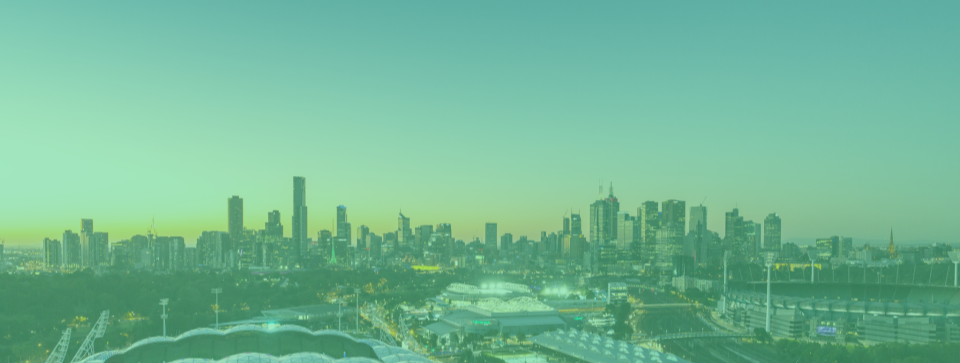
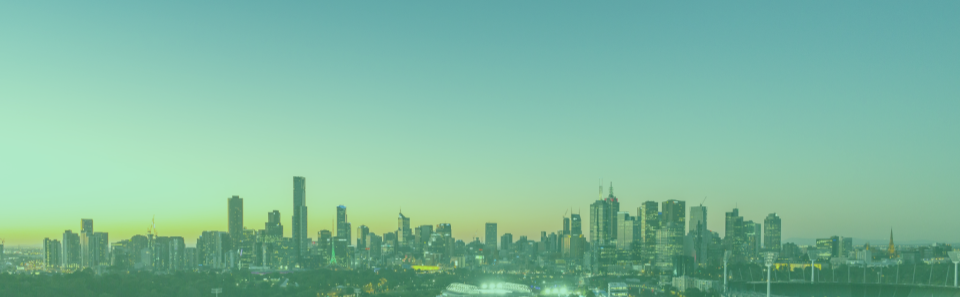
image size

Changed region(s): [[0.0, 0.4848, 1.0, 1.0]]

diff --git a/index.md b/index.md
@@ -7,7 +7,7 @@
 # <h3 class="blackpar_title">(Models, Training and Inference)</h3>
 layout: home
 ---
-<div style="font-family: 'Source Sans', sans-serif; background: url('images/front_photo_melbourne.png') no-repeat; background-size: contain; user-select: none;">
+<div style="font-family: 'Source Sans', sans-serif; background: url('images/front_photo_melbourne.png') no-repeat; background-size: cover; user-select: none;">
 	<center>
 		<h2 class="blackpar_title">SUMAC 2024</h2>
 		<h3 class="blackpar_title"> 6<sup>th</sup> workshop on analy<a style="color: rgb(164, 0, 0)">s</a>is, <a style="color: rgb(164, 0, 0)">u</a>nderstanding <br>and pro<a style="color: rgb(164, 0, 0)">m</a>otion of herit<a style="color: rgb(164, 0, 0)">a</a>ge <a style="color: rgb(164, 0, 0)">c</a>ontents</h3>
